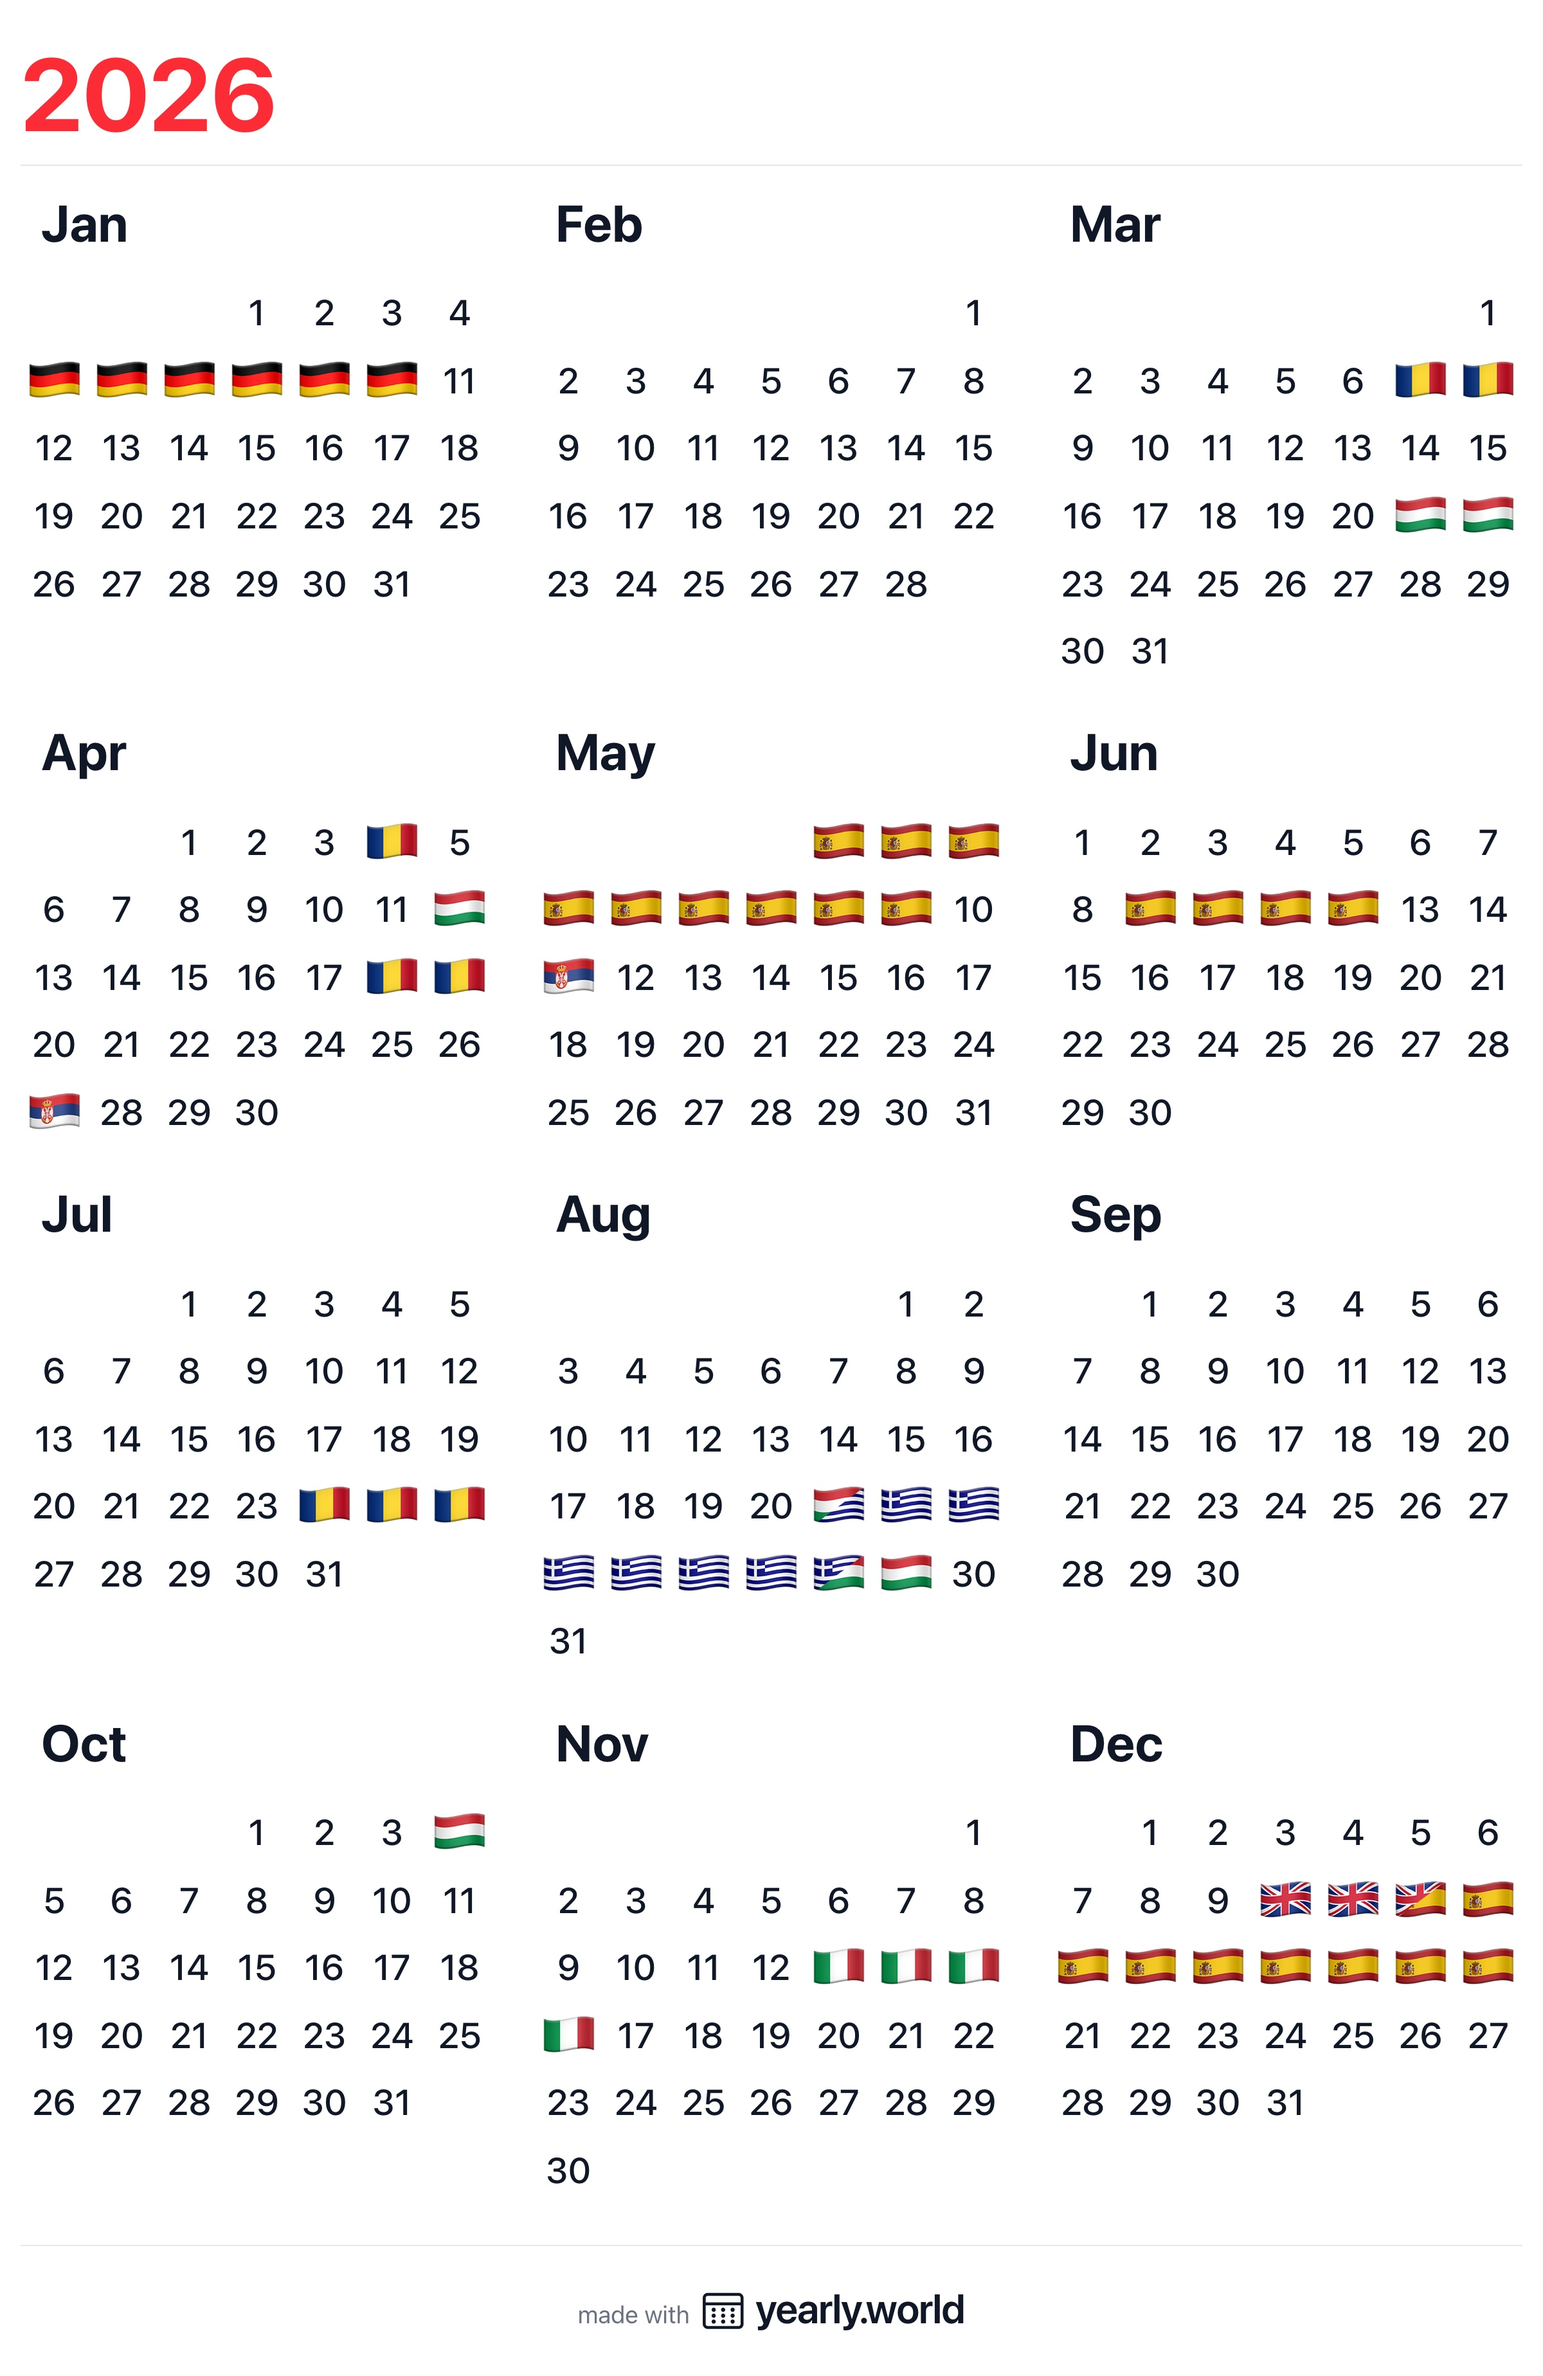
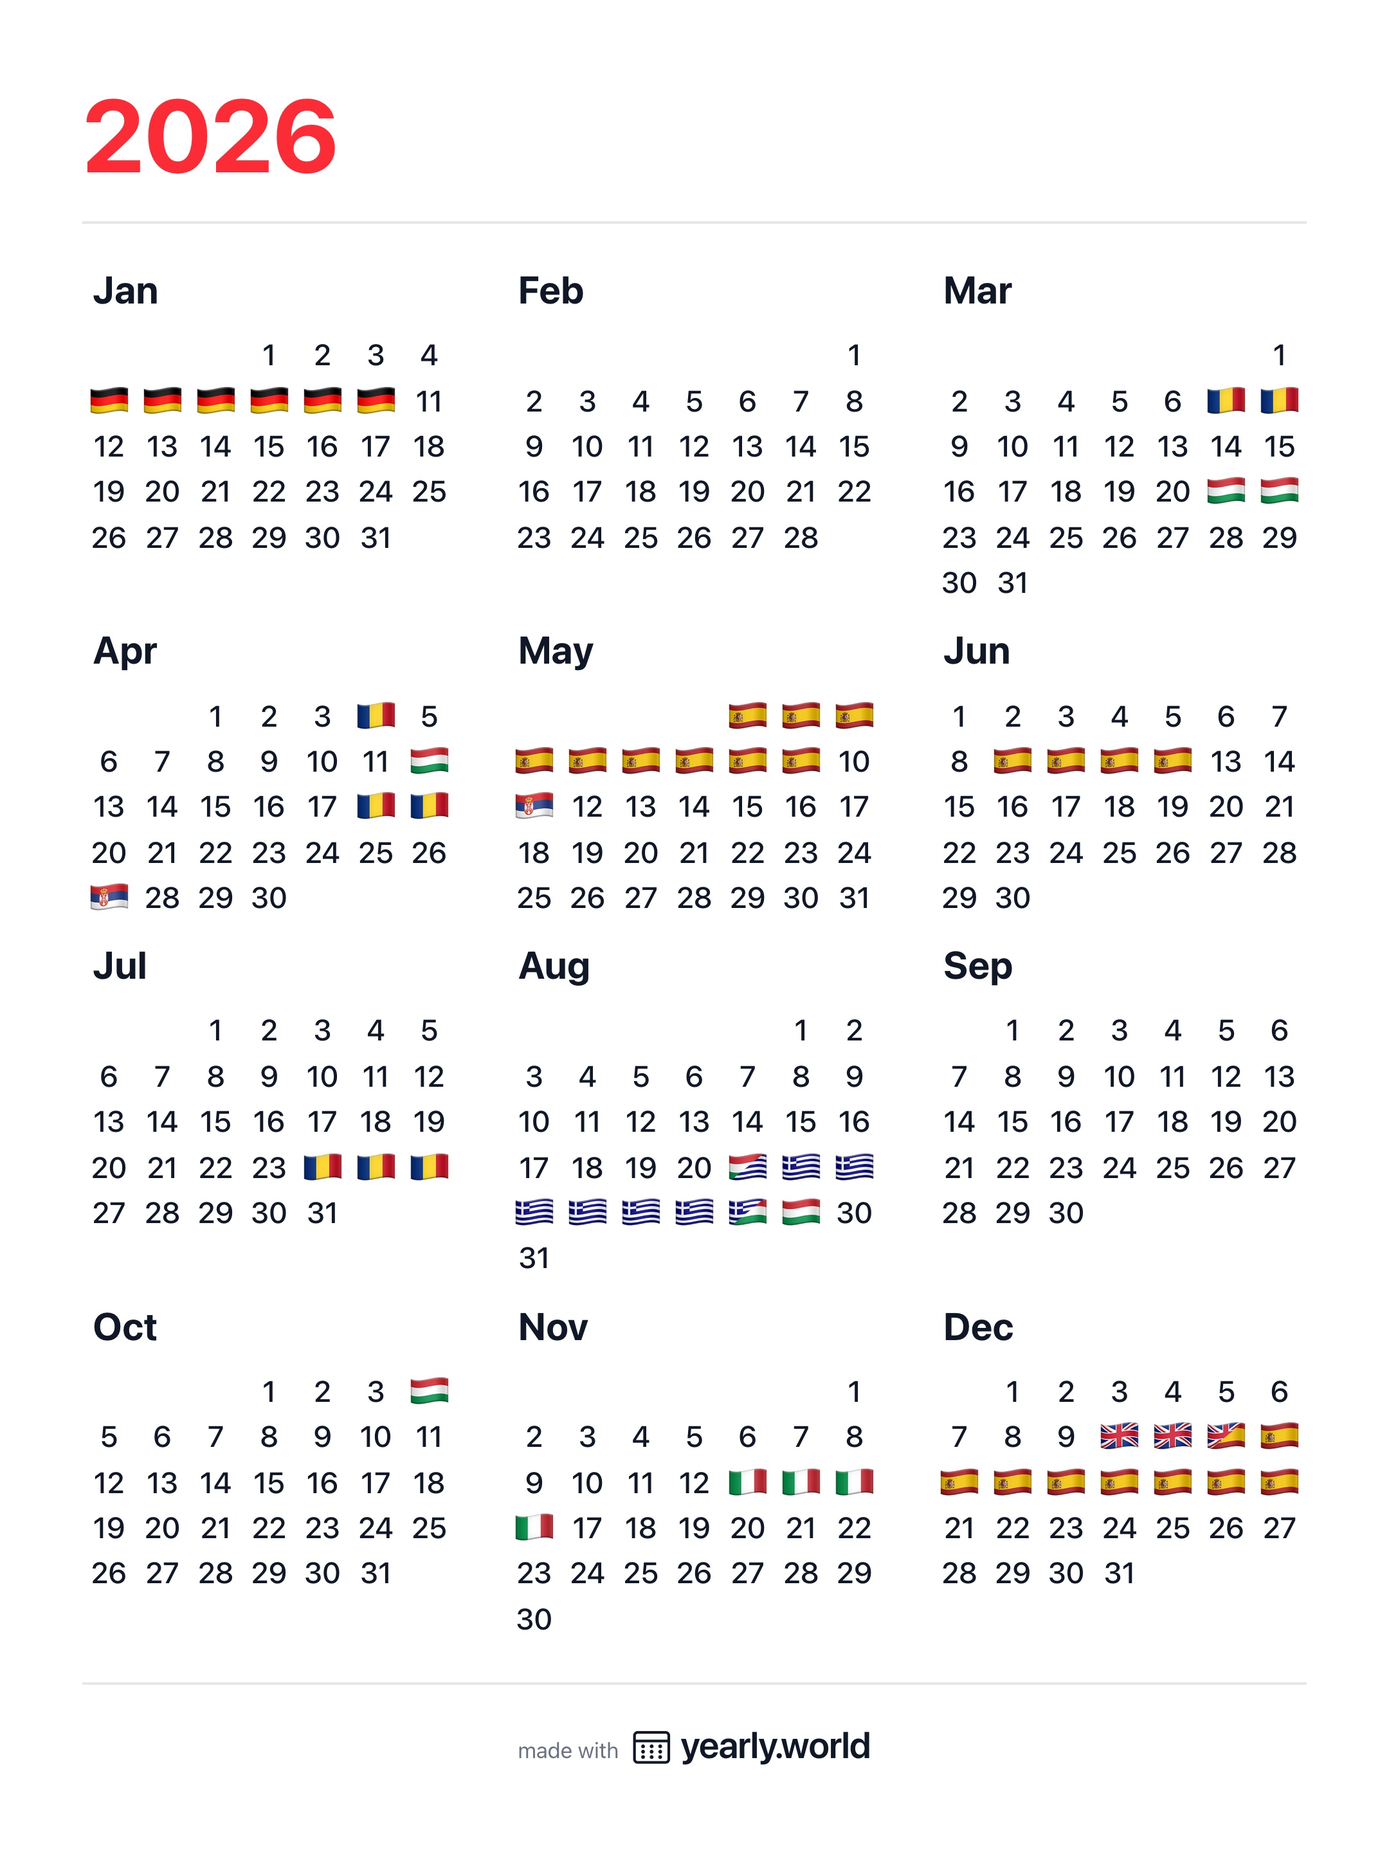
feat: Regenerate the homepage examples and hero in the new export sizes
The three homepage examples are now Story exports (1080×1920) of the same
Singapore-based demo year, so they share one height and line up. The hero
uses the Feed version of the full-year export (2160×2880), which fits a
desktop screen at 606×808 instead of 606×933. All eight images came from
the real export buttons.

diff --git a/src/lib/homepage-examples.ts b/src/lib/homepage-examples.ts
@@ -15,8 +15,8 @@ export interface HomepageExample extends HomepageImagePair {
 }
 
 export const HERO_IMAGE: HomepageImagePair = {
-  light: { src: '/example_light.jpg', width: 2400, height: 3696 },
-  dark: { src: '/example_dark.jpg', width: 2400, height: 3696 },
+  light: { src: '/example_light.jpg', width: 2160, height: 2880 },
+  dark: { src: '/example_dark.jpg', width: 2160, height: 2880 },
   alt: 'A 2026 travel calendar made with Yearly, with country flags on the days spent in Germany, Romania, Hungary, Spain, Serbia, Greece, Italy and the UK',
 }
 
@@ -24,13 +24,13 @@ export const HOMEPAGE_EXAMPLES: HomepageExample[] = [
   {
     light: {
       src: '/examples/travel-calendar-2026-yearly.jpg',
-      width: 1200,
-      height: 1848,
+      width: 1080,
+      height: 1920,
     },
     dark: {
       src: '/examples/travel-calendar-2026-yearly-dark.jpg',
-      width: 1200,
-      height: 1848,
+      width: 1080,
+      height: 1920,
     },
     alt: 'A 2026 travel calendar where country flags replace the days spent in Malaysia, Japan, France, Italy, South Korea and Australia, made with Yearly',
     caption: 'Full year',
@@ -52,13 +52,13 @@ export const HOMEPAGE_EXAMPLES: HomepageExample[] = [
   {
     light: {
       src: '/examples/travel-stats-2026-yearly.jpg',
-      width: 1200,
-      height: 1739,
+      width: 1080,
+      height: 1920,
     },
     dark: {
       src: '/examples/travel-stats-2026-yearly-dark.jpg',
-      width: 1200,
-      height: 1739,
+      width: 1080,
+      height: 1920,
     },
     alt: 'Travel statistics for 2026 made with Yearly: 10 countries, 67 days abroad, June as the busiest month, and Australia, Malaysia and South Korea as the top countries',
     caption: 'Travel stats',
